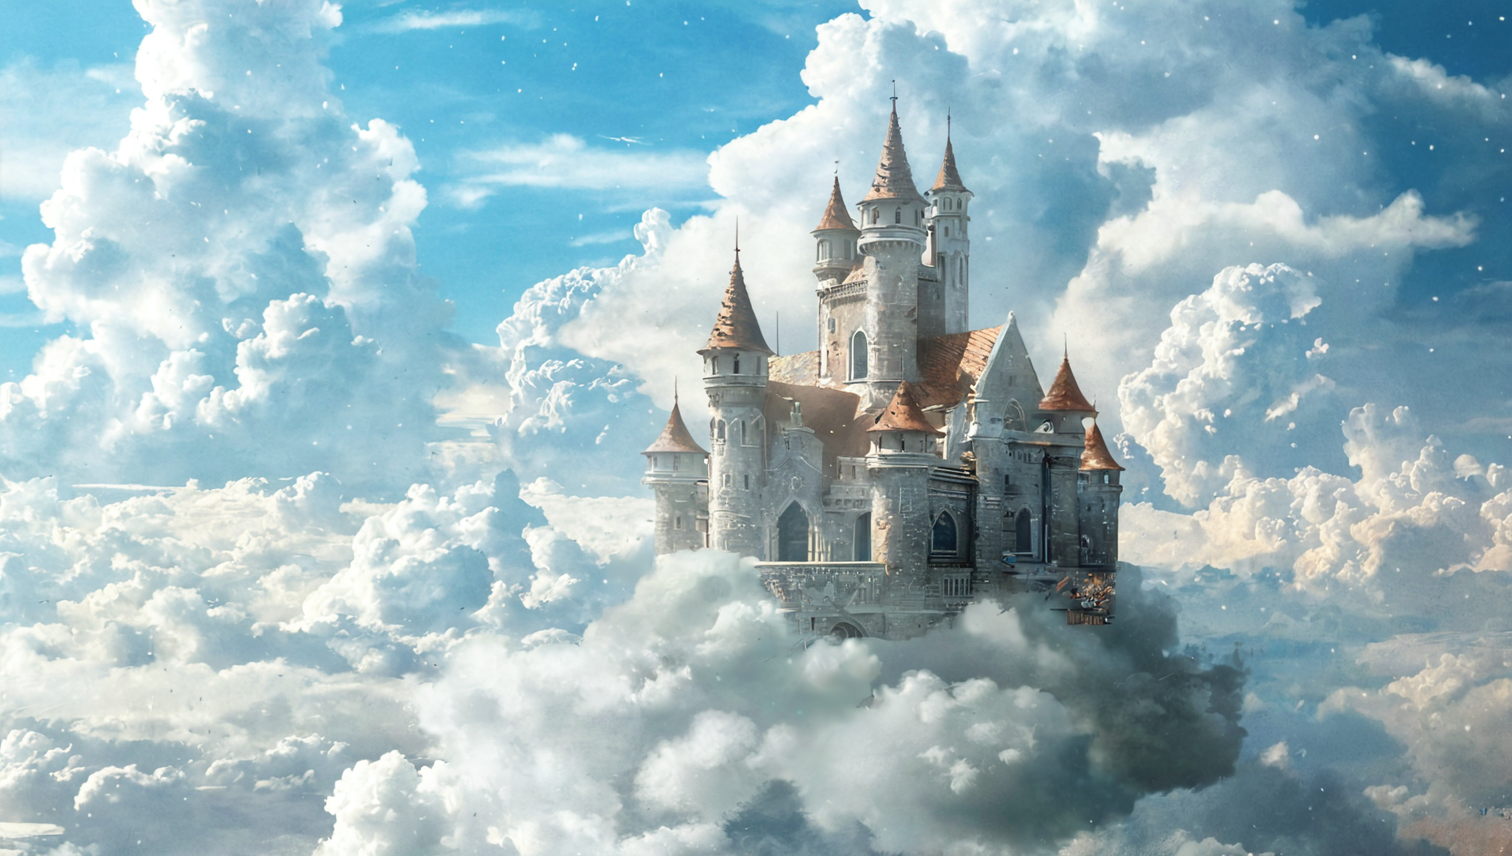
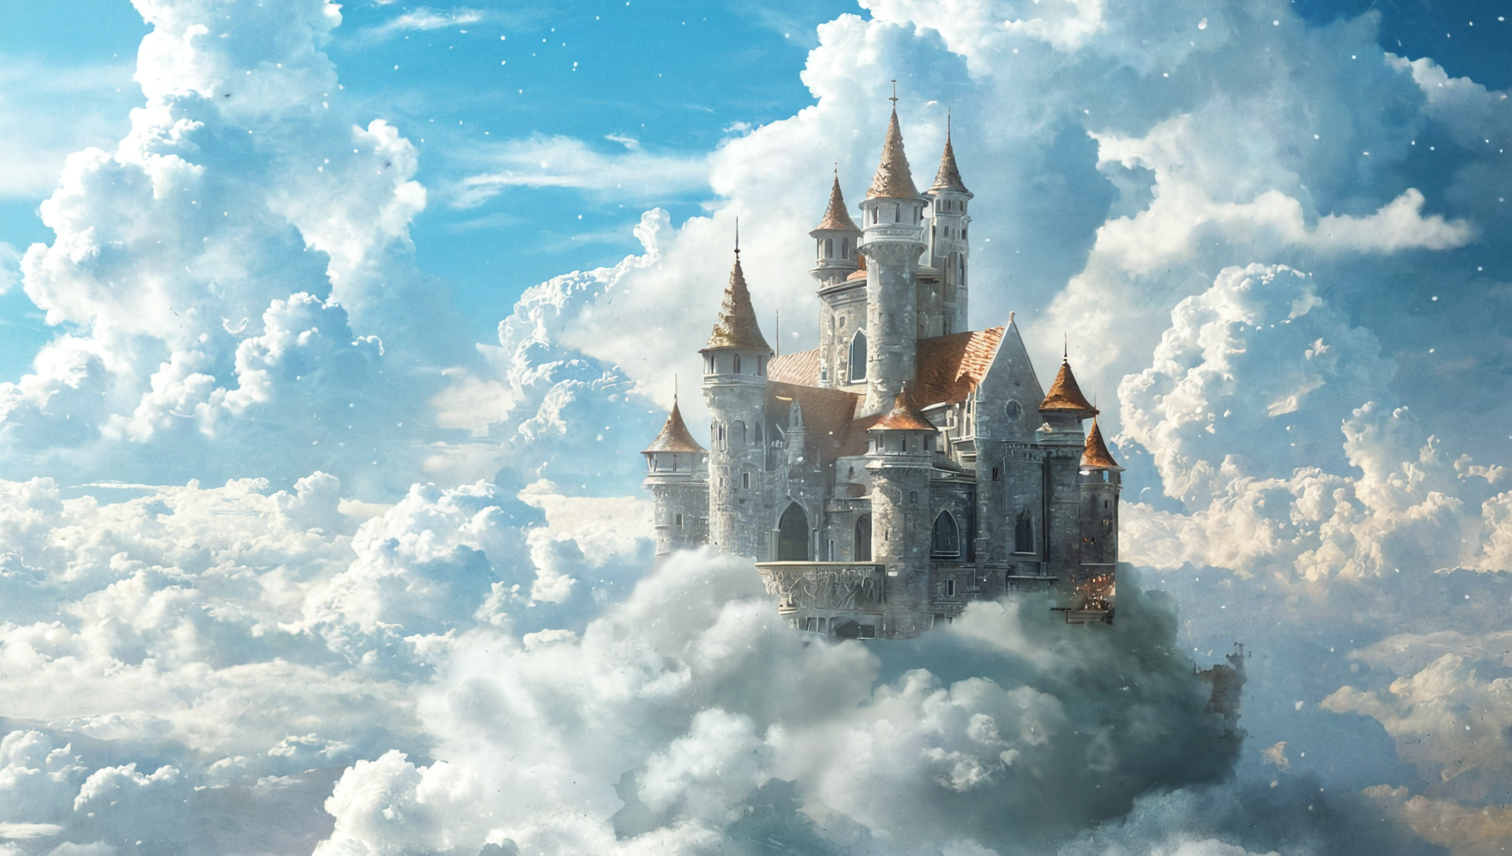
add lora

diff --git a/README.md b/README.md
@@ -83,6 +83,9 @@ The models you need for my workflow:
 **Embedding**
 - negativeXL_D.safetensors [https://civitai.com/api/download/models/134583](https://civitai.com/api/download/models/134583)
 
+**Lora**
+- add-detail-xl.safetensors [https://civitai.com/api/download/models/135867?type=Model&format=SafeTensor](https://civitai.com/api/download/models/135867?type=Model&format=SafeTensor)
+
 ## Citation 感谢
 
 Special thanks to [clarity-upscaler](https://github.com/philz1337x/clarity-upscaler) which inspired my workflow! Clarity-upscaler is based on A1111 and has not offered ComfyUI workflow yet(update:now it has). I played with the models it uses and somehow created my own simplified alternative. I have to say that mine is not as good as the original clarity-upscaler, but it works for me.
